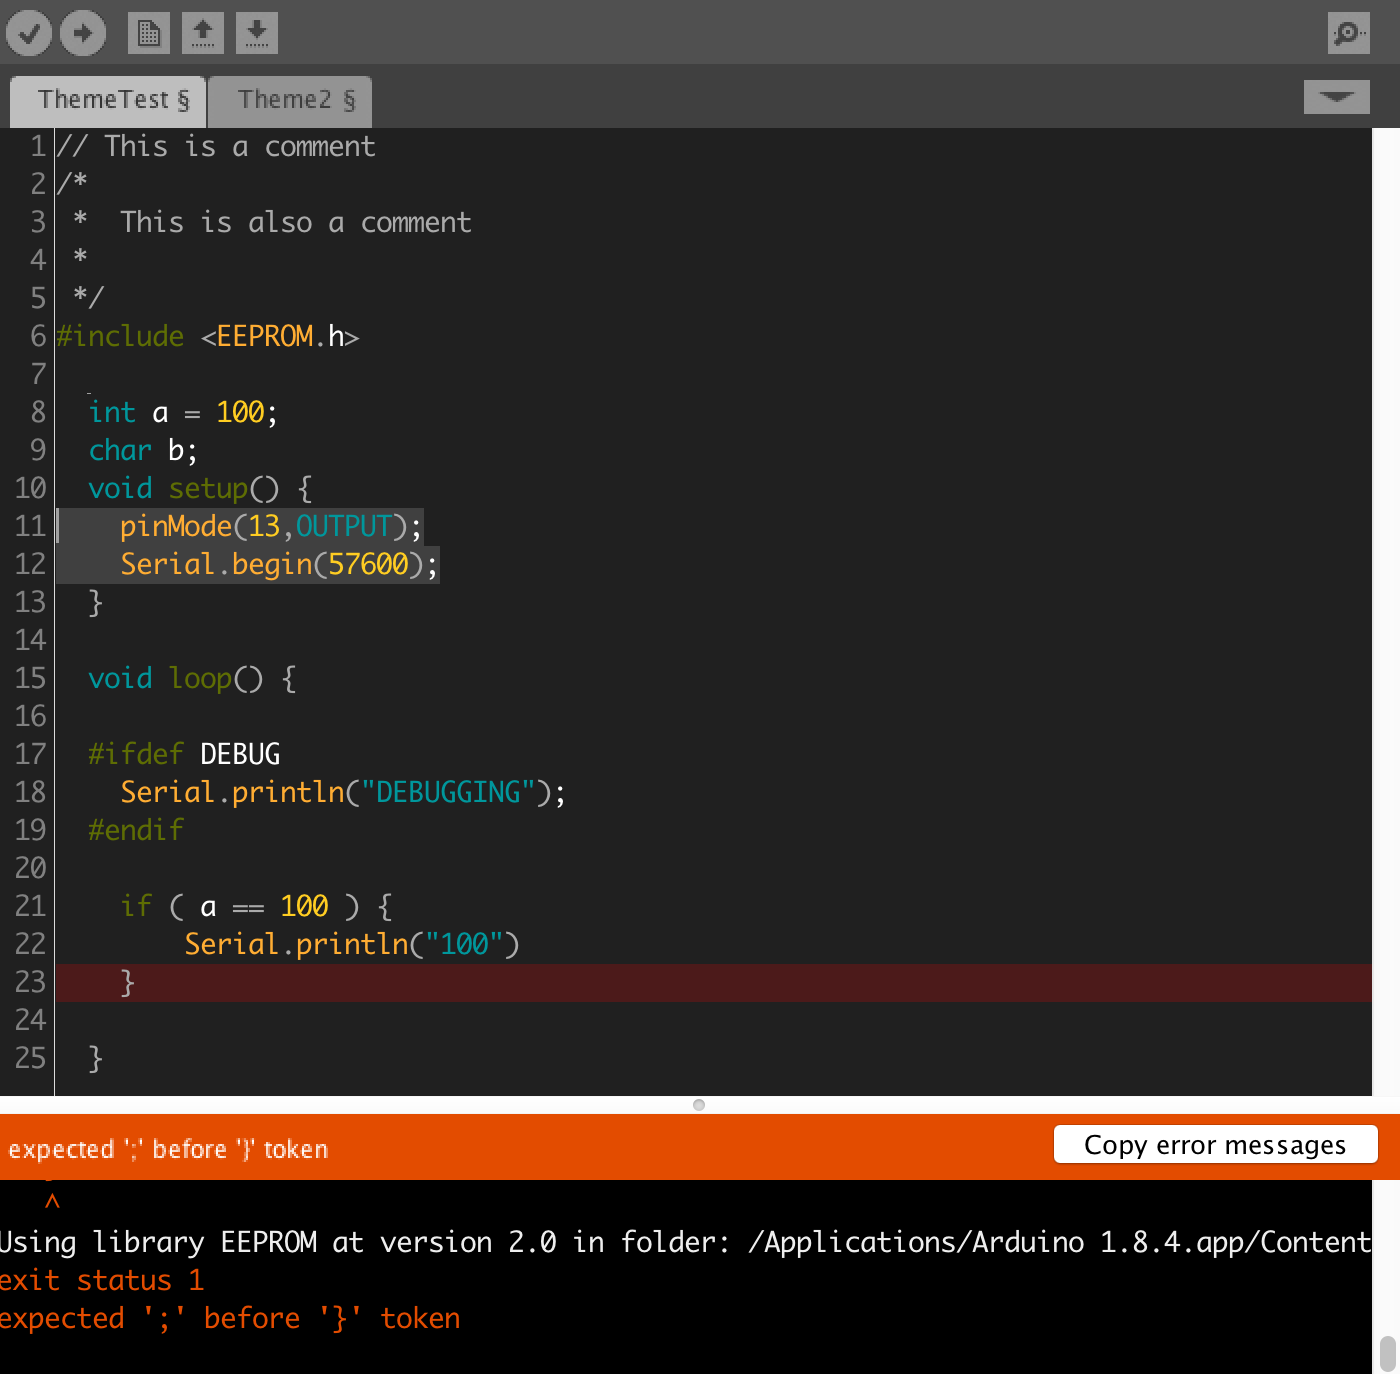
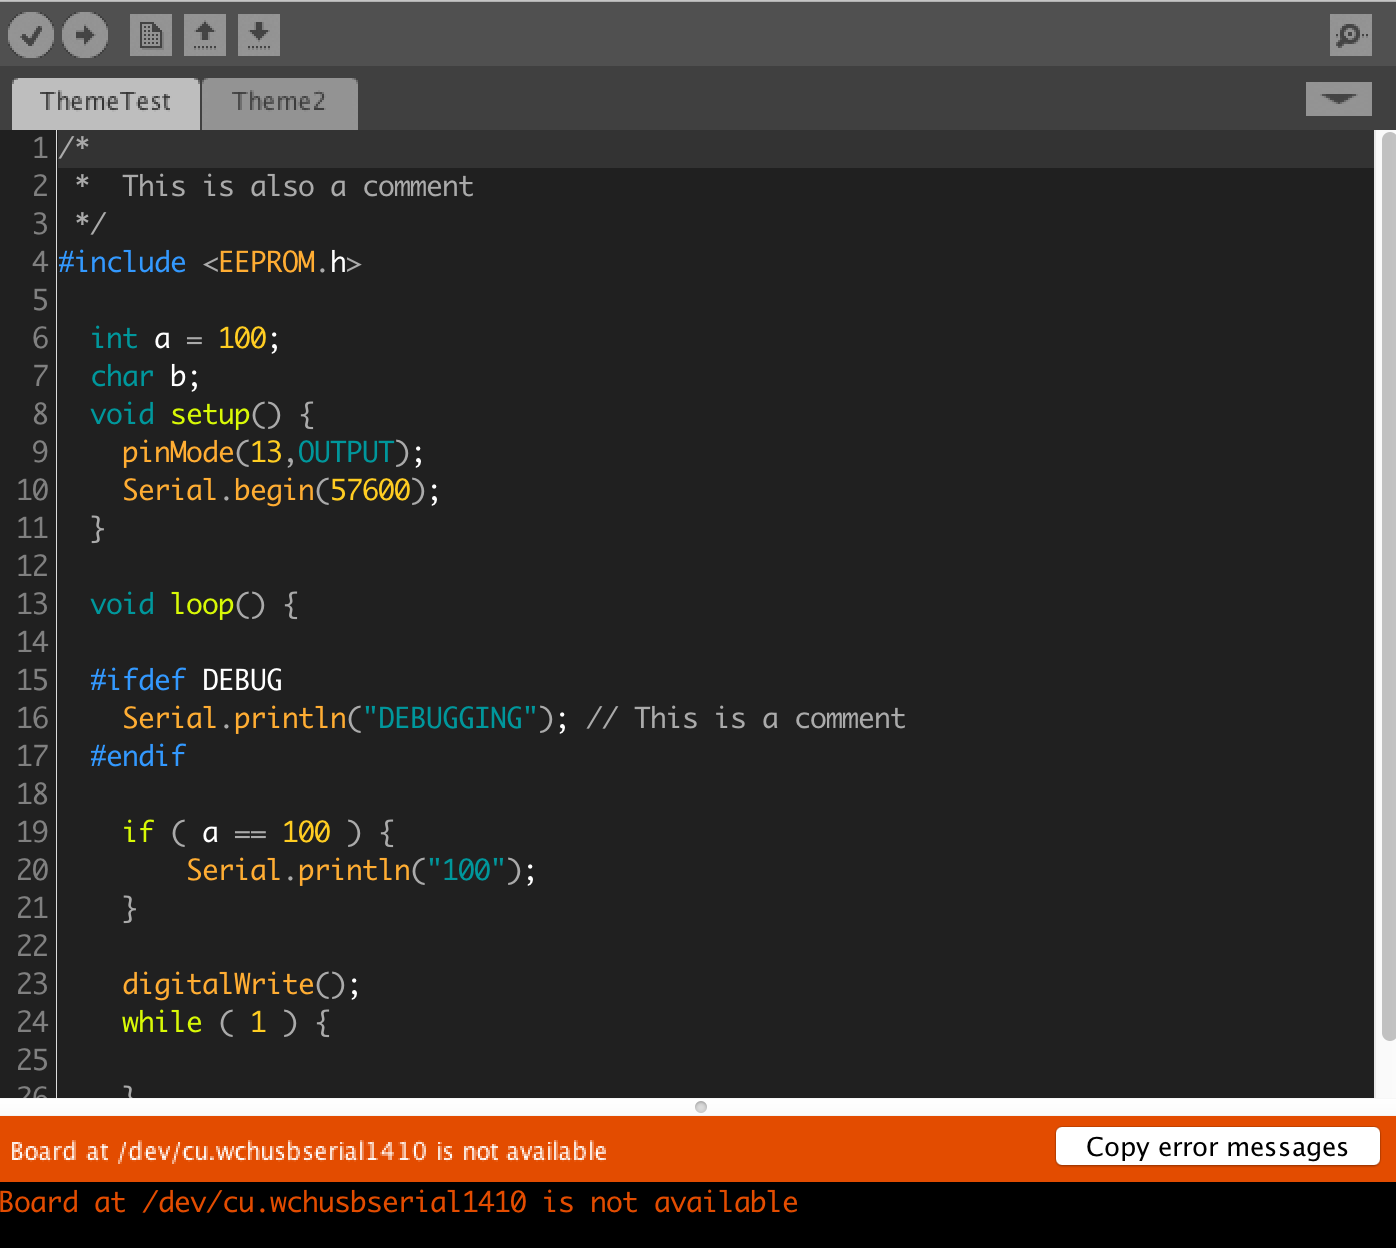
Updated colours and readme.md

Changed region(s): [[0.0, 0.0, 1.0, 1.0], [0.5236, 0.5625, 0.6468, 0.5938], [0.462, 0.5625, 0.4928, 0.5938]]

diff --git a/README.md b/README.md
@@ -1,4 +1,4 @@
-![screenshot](https://raw.githubusercontent.com/jeffThompson/DarkArduinoTheme/master/screenshot.png)
+![screenshot](https://raw.githubusercontent.com/stanleyseow/DarkArduinoTheme/master/screenshot.png)
 
 Dark Arduino Theme
 ================
@@ -33,10 +33,11 @@ Orange, 60%
 `editor.function.style = #FFAD33,plain`
 
 **STRUCTURES**
-Dark Green, 22%
+Reserve words ( loop, setup, while )
+Dark green, 50%
 
-`editor.keyword3.style = #5E6D03,plain`
-`editor.reserved_word.style = #5E6D03,plain`
+`editor.keyword3.style = #D8F906,plain`
+`editor.reserved_word.style = #D8F906,plain`
 
 
 **Built-in variables, literals, reverse words, data types**
@@ -49,9 +50,9 @@ Light blue, 31%
 `editor.literal_char.style = #00979C,plain`
 
 **Preprocessors** (#ifdef, #defines, #endif)  
-Dark green, 22%
+Blue, 60%
 
-`editor.preprocessor.style = #5E6D03,plain`
+`editor.preprocessor.style = #3399ff,plain`
 
 **Comments colours**
 Grey, 67%
@@ -63,6 +64,13 @@ Grey, 67%
 Light grey, 25%
 
 `editor.selection.color = #404040`
+
+**ToDo**
+
+* Curly brackets
+* Numbers ( currently yellow )
+* Variable name ( currently white )
+
 
 
 \- \- \-
